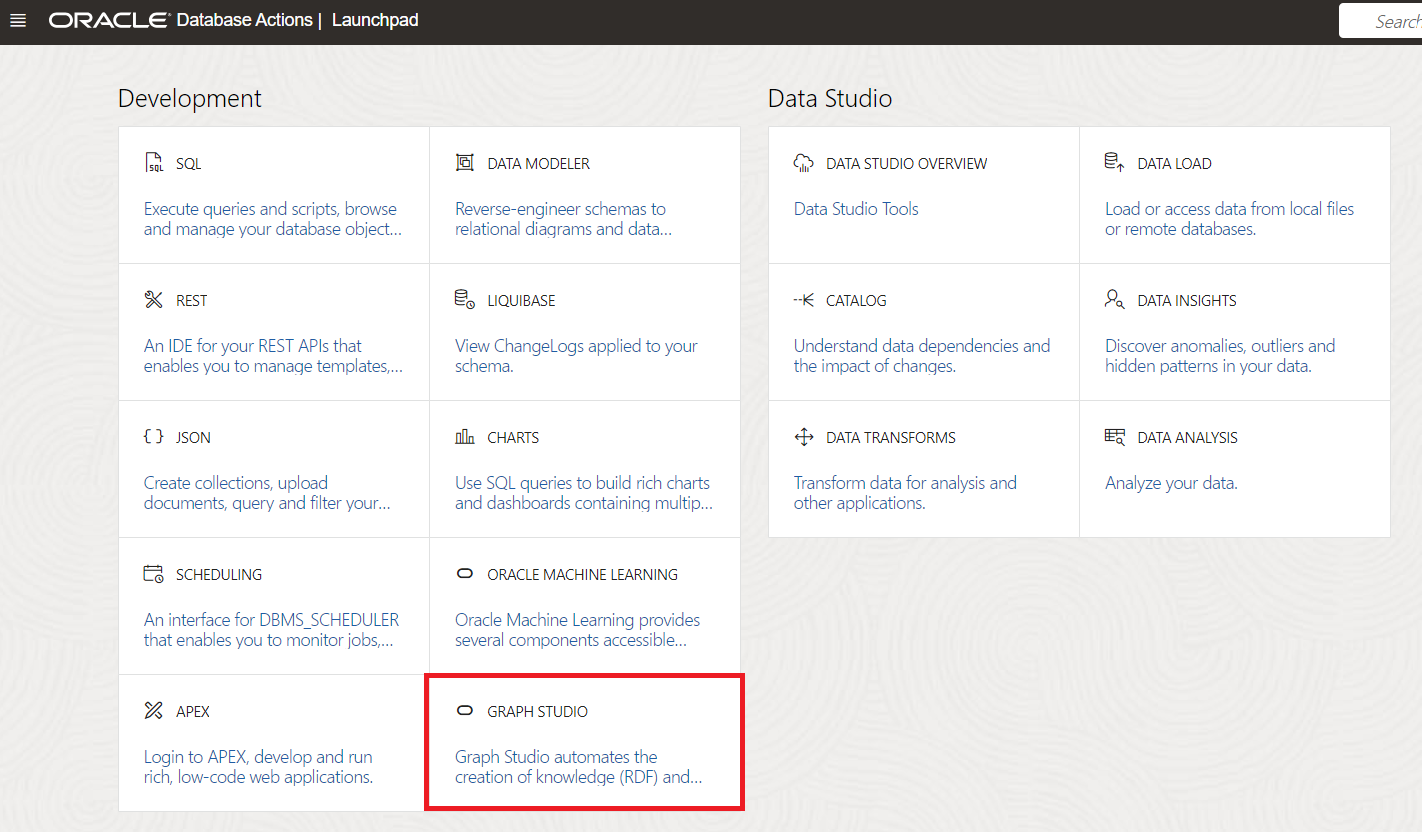
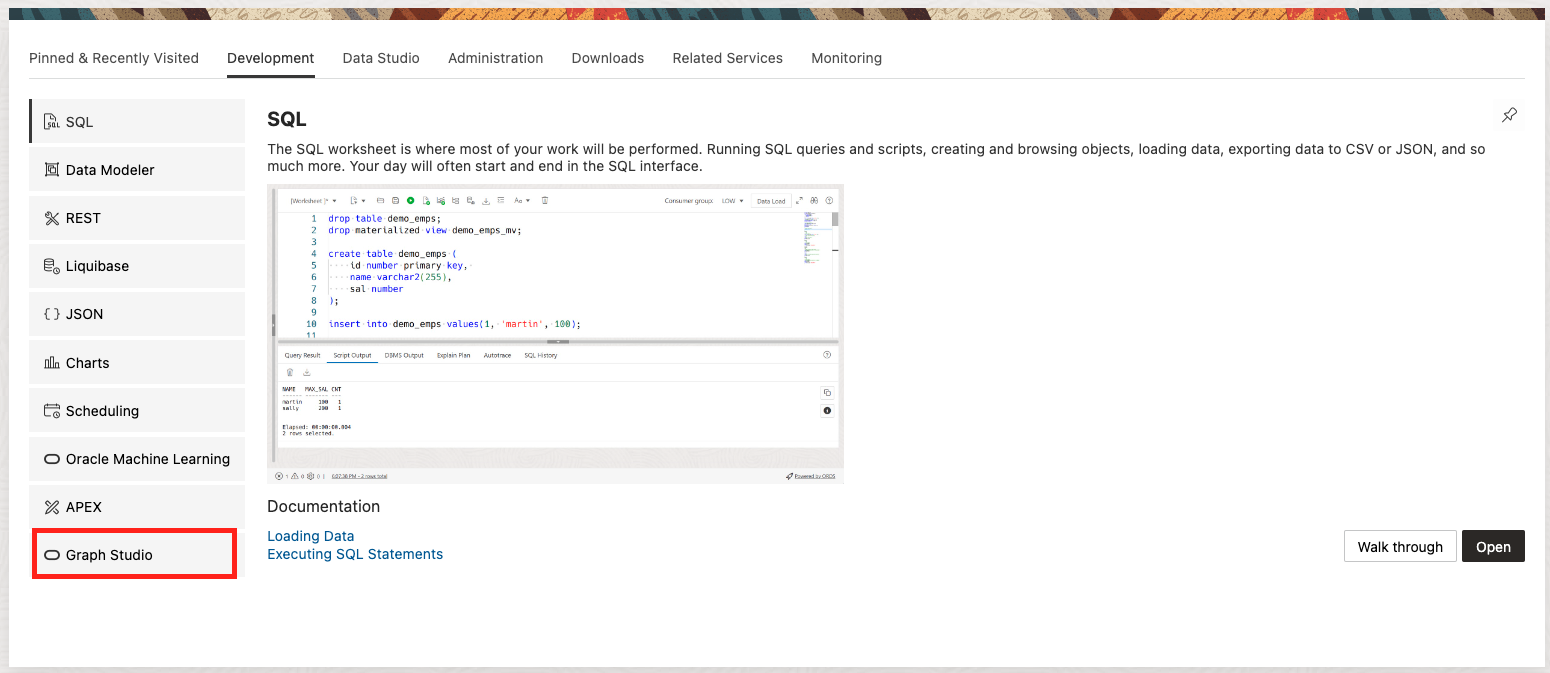
WMS 11018 sql actions update (#110)
* Update WMS 3400

Update WMS 3400 with new database actions screenshots

* WMS 2820 update with new SQL Actions

update WMS 2820 with new SQL Actions

* WMS 11018 update

Updated WMS 11018 with new Database actions

diff --git a/adb-graph/rdf-graph/rdf-graph-user-and-graph-studio/create-and-validate-an-rdf-graph-user.md b/adb-graph/rdf-graph/rdf-graph-user-and-graph-studio/create-and-validate-an-rdf-graph-user.md
@@ -34,11 +34,11 @@ Navigate to your Autonomous Database instance and create a graph user by followi
 
 3. From the Database Actions Launchpad, click **Database Users** from **Administration**.
 
-  ![The screen of the database actions launchpad, highlighting the database users page under administration](./images/database-actions-launchpad.png "")
+  ![The screen of the database actions launchpad, highlighting the database users page under administration](./images/database-users.png "")
 
 4. Click **Create User** on the Database Users page in the **All Users** area.
 
-  ![The database users page highlighting the 'create user' button](./images/database-users.png "")
+  ![The database users page highlighting the 'create user' button](./images/create-database-user.png "")
 
 5. Enter a user name and password.
 
@@ -78,7 +78,7 @@ Before we can create an RDF graph we must first import RDF data into Graph Studi
 
 1. In your **Autonomous Database Details page** page, click the **Database Actions**.
 
-  ![Click the Database Actions button](images/click-database-actions.png " ")
+  ![Click the Database Actions button](images/adb-details.png " ")
 
 2. On the Database Actions panel, click **Graph Studio**.
 
